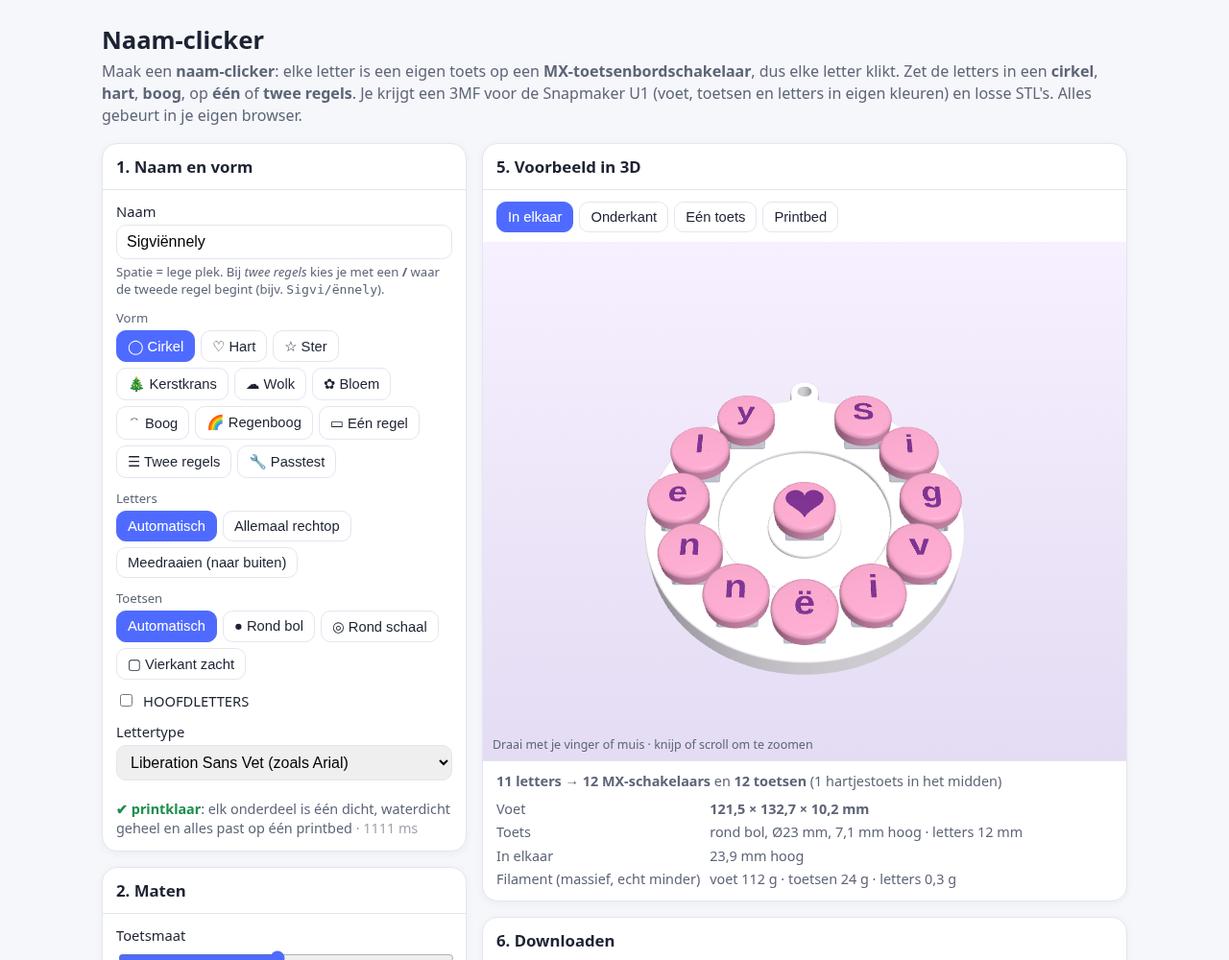
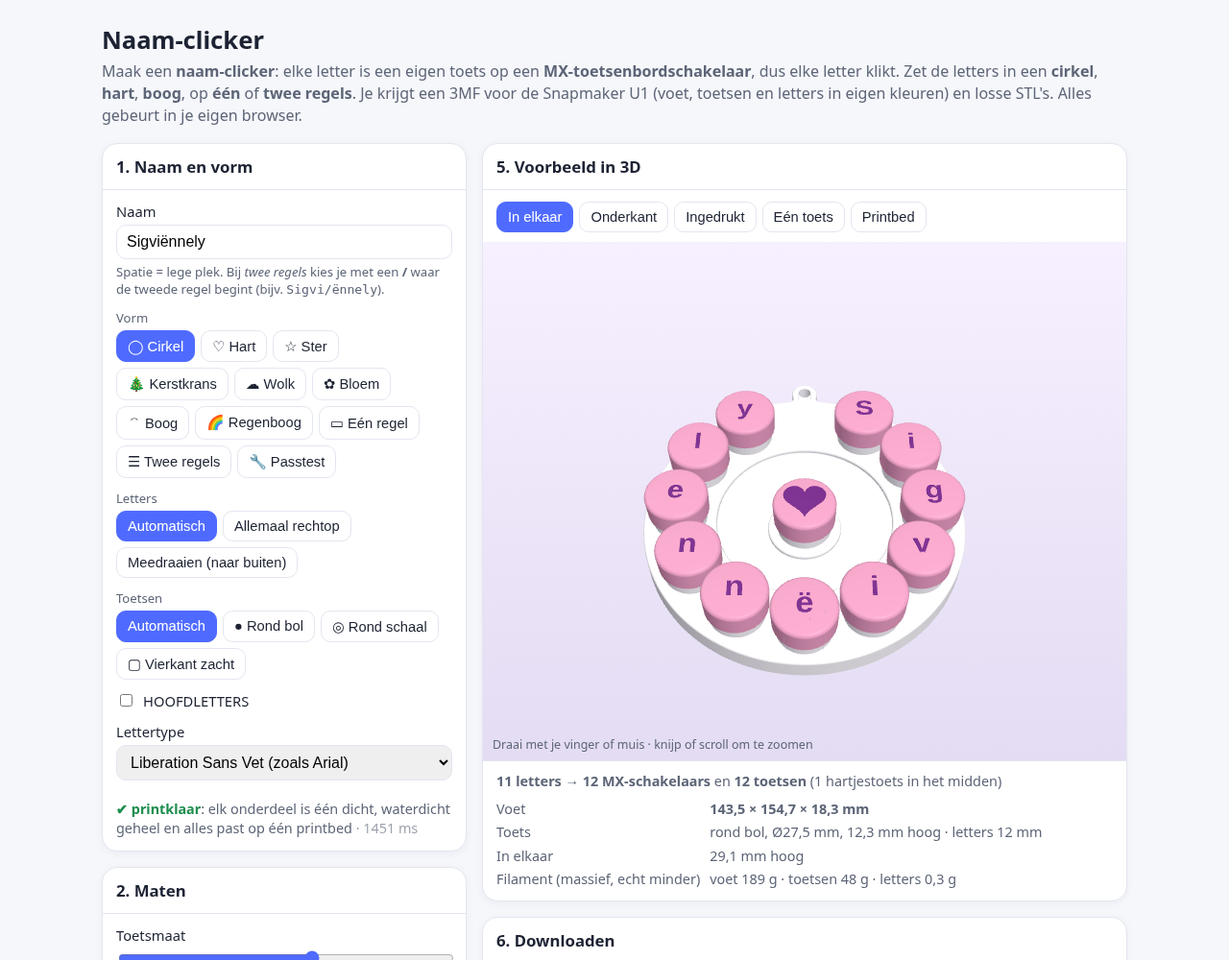
Naam-clicker v2.2: supportvrij kruisgat, kraag, weergave Ingedrukt

diff --git a/20-naam-clicker/geometry.js b/20-naam-clicker/geometry.js
@@ -22,6 +22,8 @@ export const DEFAULTS = {
   loop: true,
   stand: true,          // regenboog: losse standaard
   pushHole: false,
+  collar: true,         // 'Switch verbergen (kraag)': rand om elke schakelaar, de rok van de toets valt eroverheen
+  press: 0,             // alleen voor het 3D-beeld: 0 = in rust, 1 = helemaal ingedrukt
   label: 'verzonken',   // verzonken | gegraveerd
   inlay: 0.6,
   colors: 'gelijk',
@@ -30,6 +32,16 @@ export const DEFAULTS = {
 
 // MX-maten (Cherry): onderkant huis 5,0 mm onder plaat-bovenkant, pinnen 3,3 mm daaronder;
 // bovenhuis 6,6 mm boven de plaat (voet ca. 14,6 mm breed), steeltop 10,2 mm, slag 4 mm.
+// kraag en rok: maten rond het schakelaarhuis (MX-bovenhuis 15,6 × 15,6 mm)
+export const COLLAR = { hous: 15.6, housR: 1.0, clr: 0.35, wall: 1.2, skirtClr: 0.45, skirtWall: 1.0, taper: 0.3, overlap: 1.2, chamfer: 0.3, topClr: 1.2 };   // topClr: ruimte boven de kraag bij helemaal ingedrukt (ruim, want de echte rusthoogte van de toets verschilt per merk)
+// toetsmaat: standaard en minimum, per vorm van de toets en met of zonder kraag
+export function keySizes(round, collar) {
+  if (!collar) return round ? { def: 23, min: 22.4 } : { def: 19, min: 18.6 };
+  const C = COLLAR; const inHalf = C.hous / 2 + C.clr;
+  const collarOut = round ? (inHalf - C.housR - C.clr) * Math.SQRT2 + C.housR + C.clr + 1.0 : inHalf + C.wall;
+  const min = Math.ceil(2 * (collarOut + C.skirtClr + C.skirtWall + C.taper) * 10) / 10;
+  return { def: Math.ceil(min * 2) / 2, min };
+}
 export const SWITCHES = {
   mx: { name: 'MX (Cherry, Gateron, Outemu, Kailh Box, Akko)', below: 8.6, housTop: 6.6, stemTop: 10.2, travel: 4.0, cavity: 15.0 },
 };
@@ -213,11 +225,11 @@ export function filletPrism(W, cs0, h, f, T, steps = 8) {
 
 // ---------- toetsen ----------
 // Geprint met de steel naar beneden (rok en steel staan op het bed), de bolle of holle bovenkant komt
-// er als laatste op. Het plafond binnenin is een korte brug (±5 mm) tussen steel en rok; geen support nodig.
-function capSolid(W, o, round, style, ceil, T) {
+// er als laatste op. Alle plafonds binnenin (holte en kruisgat) lopen spits onder 45° toe: geen support nodig.
+function capSolid(W, o, round, style, ceil, T, minTop = 0) {
   const { Manifold } = W;
   const R = o.key / 2; const fr = Math.min(1.6, R * 0.15); const taper = 0.3;
-  const thick = style === 'schaal' ? 2.4 : 1.6; const zE = ceil + thick; const hd = style === 'bol' ? 1.1 : style === 'vierkant' ? 0.5 : 0;
+  const dish = style === 'schaal' ? 0.9 : 0; const thick = Math.max(style === 'schaal' ? 2.4 : 1.6, minTop + dish - ceil); const zE = ceil + thick; const hd = style === 'bol' ? 1.1 : style === 'vierkant' ? 0.5 : 0;
   const pts = [];
   const ring = (delta, z) => {
     if (round) { const r = R - delta; const n = Math.max(24, Math.round(segs(r) * 1.5)); for (let i = 0; i < n; i++) { const a = i / n * 2 * Math.PI; pts.push([r * Math.cos(a), r * Math.sin(a), z]); } }
@@ -230,7 +242,7 @@ function capSolid(W, o, round, style, ceil, T) {
   if (hd > 0) { for (let i = 1; i <= 10; i++) { const d = fr + (R - fr - 2.5) * i / 10; ring(d, zE + lift(d)); } pts.push([0, 0, zE + hd]); }
   let outer = T(Manifold.hull(pts));
   if (style === 'schaal') {
-    const a = R - fr - 0.6, dd = 0.9; const Rs = (a * a + dd * dd) / (2 * dd);
+    const a = R - fr - 0.6, dd = dish; const Rs = (a * a + dd * dd) / (2 * dd);
     outer = T(outer.subtract(T(T(Manifold.sphere(Rs, 256)).translate([0, 0, zE - dd + Rs]))));
   }
   return { outer, zTop: zE + hd };
@@ -253,8 +265,8 @@ export function buildClicker(W, font, opts = {}) {
     const style = o.capStyle === 'auto' ? (LD.round ? 'bol' : 'vierkant') : o.capStyle;
     const round = style !== 'vierkant';
     // rok moet rond het schakelaarhuis passen (vak in de toets 16 × 16 mm)
-    const minKey = round ? 22.4 : 18.6;
-    if (!o.key) o.key = round ? 23 : 19;
+    const ks0 = keySizes(round, o.collar); const minKey = ks0.min;
+    if (!o.key) o.key = ks0.def;
     if (o.key < minKey) { warn.push(`Toetsmaat verhoogd naar ${String(minKey).replace('.', ',')} mm, anders past de rok niet om de schakelaar.`); o.key = minKey; }
     const isCenterLayout = ['cirkel', 'hart', 'ster', 'wolk', 'bloem'].includes(o.layout);
 
@@ -343,7 +355,8 @@ export function buildClicker(W, font, opts = {}) {
     if (o.loop && L !== 'test' && !(L === 'regenboog' && o.stand)) {
       let P, dir;
       if (lay.closed) { const gq = lay.gap(scale); P = gq.pos; dir = gq.dir; }
-      else { const f = slots[0]; const s2 = slots[1] || { x: f.x + 1, y: f.y }; const d = [f.x - s2.x, f.y - s2.y]; const l = Math.hypot(d[0], d[1]) || 1; dir = [d[0] / l, d[1] / l]; P = [f.x, f.y]; if (L === 'tweeregels') dir = [-1, 0]; }
+      else { const f = slots[0]; const s2 = slots[1] || { x: f.x + 1, y: f.y }; const d = [f.x - s2.x, f.y - s2.y]; const l = Math.hypot(d[0], d[1]) || 1; dir = [d[0] / l, d[1] / l]; P = [f.x, f.y]; if (L === 'tweeregels') dir = [-1, 0];
+        if (L === 'lijn') { const span = Math.abs(slots[slots.length - 1].x - f.x) + FW; if (span + 22 > 266) dir = [0, 1]; } }   // lange regel: oogje boven de eerste letter, anders past hij niet op het bed
       const body = T(CrossSection.union(parts));
       let ok = false;
       for (let off = FW / 2 + bandOuterExtra + 2; off <= FW / 2 + bandOuterExtra + 40 && !ok; off += 0.5) {
@@ -381,6 +394,22 @@ export function buildClicker(W, font, opts = {}) {
     if (tabHole) holes.push(T(T(tabHole.extrude(baseH + 2)).translate([0, 0, -1])));
     base = T(base.subtract(T(Manifold.union(holes))));
 
+    // kraag: per schakelaar een rand die tot net boven de onderkant van de toetsrok komt (verbergt de schakelaar)
+    const C = COLLAR; const collarH = sw.housTop + C.overlap + C.chamfer;   // 8,1 mm boven de voet; de rok overlapt 1,2 mm in rust en 5,2 mm ingedrukt
+    let collarIn = null, collarOutCS = null, skirtIn = null, colOne = null;
+    if (o.collar) {
+      const inS = C.hous + 2 * C.clr, inR = C.housR + C.clr;
+      collarIn = T(rsq(W, inS, inR));
+      if (round) { const Rin = (inS / 2 - inR) * Math.SQRT2 + inR; collarOutCS = T(circ(W, Rin + 1.0)); skirtIn = T(circ(W, Rin + 1.0 + C.skirtClr)); }
+      else { collarOutCS = T(rsq(W, inS + 2 * C.wall, inR + C.wall)); skirtIn = T(rsq(W, inS + 2 * C.wall + 2 * C.skirtClr, inR + C.wall + C.skirtClr)); }
+      const topCS = T(collarOutCS.offset(-C.chamfer, 'Round', 2, SEG));
+      const col = T(T(T(T(collarOutCS.extrude(collarH - C.chamfer + 0.01)).translate([0, 0, baseH - 0.01]))
+        .add(T(Manifold.hull([T(T(collarOutCS.extrude(0.01)).translate([0, 0, baseH + collarH - C.chamfer - 0.01])), T(T(topCS.extrude(0.01)).translate([0, 0, baseH + collarH - 0.01]))]))))
+        .subtract(T(T(collarIn.extrude(collarH + 2)).translate([0, 0, baseH - 1]))));
+      colOne = col;
+      base = T(base.add(T(Manifold.union(allKeys.map((k) => T(T(col.rotate([0, 0, k.rot])).translate([k.x, k.y, 0])))))));
+    }
+
     // krans: hulstblaadjes en besjes op de buitenrand
     let decoLeaves = null, decoBerries = null;
     if (L === 'krans') {
@@ -409,7 +438,7 @@ export function buildClicker(W, font, opts = {}) {
     let standM = null;
     if (L === 'regenboog' && o.stand) {
       const bb0 = base.boundingBox(); const len = bb0.max[0] - bb0.min[0] + 10, depth = 34, hgt = 15, tilt = 12;
-      const blk = filletPrism(W, T(T(rsq(W, 10, 1)).scale([len / 10, depth / 10])), hgt, 2, T);
+      const blk = filletPrism(W, T(T(CrossSection.square([len - 8, depth - 8], true)).offset(4, 'Round', 2, SEG)), hgt, 2, T);
       const slotW = baseH + 0.5, slotD = 10;
       const slot = T(T(T(T(Manifold.cube([len - 8, slotW, slotD + 20], true)).translate([0, 0, (slotD + 20) / 2])).rotate([-tilt, 0, 0])).translate([0, 2, hgt - slotD]));
       standM = T(blk.subtract(slot));
@@ -420,15 +449,55 @@ export function buildClicker(W, font, opts = {}) {
     const stemTopL = sw.stemTop - skirtGap;      // 3,6 mm
     const socketD = Math.min(3.6, stemTopL);
     const ceil = sw.housTop + sw.travel + 0.4 - skirtGap;   // 4,4 mm: plafond vrij van het huis bij indrukken
-    const { outer, zTop } = capSolid(W, o, round, style, ceil, T);
-    const cavS = 16, cavR = 2.5;
-    const cavity = T(T(T(rsq(W, cavS, cavR)).extrude(ceil + 1)).translate([0, 0, -1]));
-    const post = T(Manifold.cylinder(ceil + 0.3, 2.75, 2.75, 64));
+    // holte onder de toets, helemaal zelfdragend bij printen met de steel omlaag:
+    // rechte rok tot cavZ, daarboven loopt het plafond onder 45° naar binnen; de steel loopt vanaf flareZ
+    // onder 45° naar buiten. Waar die twee schuine vlakken elkaar raken ontstaat een spitse nok: geen plat plafond.
+    const flareZ = sw.travel + 0.1;   // 4,1 mm: net boven de 4 mm slag
+    const slab = (cs, z0, h) => T(T(cs.extrude(h)).translate([0, 0, z0]));
+    const H = 7.5, HF = 20;   // H: hoogte van de schuine holte-afschuining; HF: steel-uitloop (ruim boven de toets)
+    let cavity, roundCav = false;
+    if (o.collar) {
+      // rok valt over de kraag: plafond boven de kraag moet bij indrukken nog 0,5 mm vrij blijven
+      const cavZ = (collarH - sw.housTop) + sw.travel + C.topClr - (C.skirtClr + C.chamfer);   // 5,95 mm boven de onderkant van de rok
+      roundCav = round;
+      const base0 = slab(skirtIn, -1, cavZ + 1);
+      if (round) { const Rs = skirtIn.bounds().max[0];
+        cavity = T(base0.add(T(Manifold.hull([slab(T(circ(W, Rs)), cavZ - 0.01, 0.01), slab(T(circ(W, Rs - H)), cavZ + H - 0.01, 0.01)])))); }
+      else { const sb = skirtIn.bounds(); const side = sb.max[0] - sb.min[0], rr = C.housR + C.clr + C.wall + C.skirtClr;
+        const offSq = (t) => { const sd = side - 2 * t, r2 = rr - t; return r2 > 0.05 ? T(rsq(W, sd, r2)) : T(CrossSection.square([sd, sd], true)); };
+        cavity = T(base0.add(T(Manifold.hull([slab(offSq(0), cavZ - 0.01, 0.01), slab(offSq(rr), cavZ + rr - 0.01, 0.01), slab(offSq(H), cavZ + H - 0.01, 0.01)])))); }
+    } else {
+      // zonder kraag: vak 16 × 16 mm, plafond vanaf 2,6 mm onder 45° naar binnen
+      const cavS = 16, cavR = 2.5, cavZ = ceil - 1.8;
+      const offSq = (side, r, t) => { const sd = side - 2 * t, rr = r - t; return rr > 0.05 ? T(rsq(W, sd, rr)) : T(CrossSection.square([sd, sd], true)); };
+      cavity = T(T(slab(T(rsq(W, cavS, cavR)), -1, cavZ + 1)).add(T(Manifold.hull([
+        slab(offSq(cavS, cavR, 0), cavZ - 0.01, 0.01), slab(offSq(cavS, cavR, cavR), cavZ + cavR - 0.01, 0.01), slab(offSq(cavS, cavR, 7), cavZ + 7 - 0.01, 0.01)]))));
+    }
+    // steel: Ø5,5, onderrand 0,3 mm afgeschuind (olifantspoot); vanaf flareZ loopt hij onder 45° uit
+    // (kegel bij een ronde holte, vierkante piramide bij een vierkante holte)
+    const postR = 2.75, postFoot = 0.3, pA = 2 * postR / Math.SQRT2 - 0.02;
+    const flare = roundCav ? T(Manifold.cylinder(HF, postR - 0.02, postR - 0.02 + HF, 96).translate([0, 0, flareZ]))
+      : T(Manifold.hull([slab(T(CrossSection.square([pA, pA], true)), flareZ, 0.01), slab(T(CrossSection.square([pA + 2 * HF, pA + 2 * HF], true)), flareZ + HF, 0.01)]));
+    const post = T(T(Manifold.hull([T(Manifold.cylinder(0.01, postR - postFoot, postR - postFoot, 64)), T(T(Manifold.cylinder(flareZ + 0.2 - postFoot, postR, postR, 64)).translate([0, 0, postFoot]))])).add(flare));
+    const voidM = T(cavity.subtract(post));
+    const ridge = voidM.boundingBox().max[2];
+    const { outer, zTop } = capSolid(W, o, round, style, ceil, T, ridge + Math.max(Math.min(o.inlay, 1.2), 0.8) + 0.5);
     const armL = 4.0 + o.stemTol, armW = 1.2 + o.stemTol;
     const crossCS = T(CrossSection.union([T(CrossSection.square([armL, armW], true)), T(CrossSection.square([armW, armL], true))]));
-    const cross = T(T(crossCS.extrude(socketD + 1)).translate([0, 0, -1]));
-    const lead = T(T(T(crossCS.offset(0.25, 'Miter', 2, 8)).extrude(0.25 + 1)).translate([0, 0, -1])); // invoerrandje tegen olifantspoot
-    const capShell = T(T(T(T(outer.subtract(cavity)).add(post)).subtract(cross)).subtract(lead));
+    // kruisgat: volle 3,6 mm diep, met daarboven een 45°-zadeldak per arm (spits plafond, zelfdragend)
+    // kruisgat: volle 3,6 mm diep; daarboven per arm een spits zadeldak onder 60° (ruim boven Orca's 30°-drempel,
+    // ook voor kleine smalle gaatjes) en aan de mond een afschuining van 0,35 mm, ook onder 60°.
+    // Gebouwd als bolle romp van punten: de nok is een echte lijn, dus er is nergens een plat vlakje.
+    const roofA = 60 * Math.PI / 180, rh = (armW / 2) * Math.tan(roofA), ch = 0.35, chH = ch * Math.tan(roofA);
+    const rect = (lx, ly, z) => [[-lx / 2, -ly / 2, z], [lx / 2, -ly / 2, z], [lx / 2, ly / 2, z], [-lx / 2, ly / 2, z]];
+    const arm = (rotZ) => {
+      const box = T(T(Manifold.cube([armL, armW, socketD + 1], true)).translate([0, 0, (socketD + 1) / 2 - 1]));
+      const roof = T(Manifold.hull([...rect(armL, armW, socketD - 0.2), ...rect(armL, armW, socketD), [-armL / 2, 0, socketD + rh], [armL / 2, 0, socketD + rh]]));
+      const mouth = T(Manifold.hull([...rect(armL + 2 * ch, armW + 2 * ch, -1), ...rect(armL + 2 * ch, armW + 2 * ch, 0), ...rect(armL, armW, chH)]));
+      let a = T(T(box.add(roof)).add(mouth)); if (rotZ) a = T(a.rotate([0, 0, rotZ])); return a;
+    };
+    const cross = T(arm(0).add(arm(90)));
+    const capShell = T(T(outer.subtract(voidM)).subtract(cross));
 
     // letters
     const em = 100; const glyphs = new Map(); const missing = [];
@@ -471,10 +540,11 @@ export function buildClicker(W, font, opts = {}) {
     if (thin.length) warn.push('Dunne lijntjes (< 0,5 mm) in: ' + [...new Set(thin)].join(' ') + '. Maak de letters groter.');
 
     // --- in elkaar (3D-beeld) ---
-    const assembled = caps.map((c) => { const pl = (m) => T(T(T(m.rotate([0, 0, c.slot.rot])).translate([c.slot.x, c.slot.y, baseH + skirtGap]))); return { body: pl(c.body), letter: c.letter ? pl(c.letter) : null }; });
+    const pz = -sw.travel * Math.max(0, Math.min(1, o.press || 0));   // alleen voor het beeld: ingedrukt
+    const assembled = caps.map((c) => { const pl = (m) => T(T(T(m.rotate([0, 0, c.slot.rot])).translate([c.slot.x, c.slot.y, baseH + skirtGap + pz]))); return { body: pl(c.body), letter: c.letter ? pl(c.letter) : null }; });
     const swParts = allKeys.map((k) => {
-      const hous = T(Manifold.hull([T(T(T(rsq(W, 14.6, 1)).extrude(1)).translate([0, 0, baseH])), T(T(T(rsq(W, 11.4, 1.5)).extrude(0.5)).translate([0, 0, baseH + sw.housTop - 0.5]))]));
-      const st = T(T(crossCS.extrude(sw.stemTop - sw.housTop)).translate([0, 0, baseH + sw.housTop]));
+      const hous = T(Manifold.hull([T(T(T(rsq(W, COLLAR.hous, COLLAR.housR)).extrude(1.5)).translate([0, 0, baseH])), T(T(T(rsq(W, 11.4, 1.5)).extrude(0.5)).translate([0, 0, baseH + sw.housTop - 0.5]))]));
+      const st = T(T(crossCS.extrude(sw.stemTop - sw.housTop)).translate([0, 0, baseH + sw.housTop + pz]));
       return T(T(T(hous.add(st)).rotate([0, 0, k.rot])).translate([k.x, k.y, 0]));
     });
     const switchesM = T(Manifold.union(swParts));
@@ -487,9 +557,17 @@ export function buildClicker(W, font, opts = {}) {
     let y = -g; let standP = null;
     if (standM) { const sb = standM.boundingBox(); standP = T(standM.translate([-(sb.min[0] + sb.max[0]) / 2, y - sb.max[1], 0])); y -= (sb.max[1] - sb.min[1]) + g; }
     const cell = o.key + g;
-    let cols = Math.max(1, Math.min(Math.floor((bed - 2 * margin + g) / cell), Math.max(Math.floor((bw + g) / cell), Math.ceil(caps.length / 3))));
-    const printed = caps.map((c, i) => { const col = i % cols, row = Math.floor(i / cols); const rowN = Math.min(cols, caps.length - row * cols);
-      const x = (col - (rowN - 1) / 2) * cell, yy = y - o.key / 2 - row * cell; return { body: T(c.body.translate([x, yy, 0])), letter: c.letter ? T(c.letter.translate([x, yy, 0])) : null }; });
+    // A: toetsen in rijen onder de voet; B (als A niet past): toetsen in kolommen rechts naast de voet
+    const placeA = () => { let cols = Math.max(1, Math.min(Math.floor((bed - 2 * margin + g) / cell), Math.max(Math.floor((bw + g) / cell), Math.ceil(caps.length / 3))));
+      return caps.map((c, i) => { const col = i % cols, row = Math.floor(i / cols); const rowN = Math.min(cols, caps.length - row * cols);
+        return [(col - (rowN - 1) / 2) * cell, y - o.key / 2 - row * cell]; }); };
+    const placeB = () => { const x0 = bw / 2 + g + o.key / 2, top = bh - o.key / 2; const rows = Math.max(1, Math.floor((Math.max(bh, bed - 2 * margin) + g) / cell));
+      return caps.map((c, i) => [x0 + Math.floor(i / rows) * cell, top - (i % rows) * cell]); };
+    const span = (pos) => { let a = [1e9, 1e9], b2 = [-1e9, -1e9]; const add = (x0, y0, x1, y1) => { a = [Math.min(a[0], x0), Math.min(a[1], y0)]; b2 = [Math.max(b2[0], x1), Math.max(b2[1], y1)]; };
+      add(-bw / 2, 0, bw / 2, bh); if (standP) { const sb = standP.boundingBox(); add(sb.min[0], sb.min[1], sb.max[0], sb.max[1]); }
+      pos.forEach(([x, yy]) => add(x - o.key / 2, yy - o.key / 2, x + o.key / 2, yy + o.key / 2)); return Math.max(b2[0] - a[0], b2[1] - a[1]); };
+    let pos = placeA(); if (span(pos) > bed - 2) { const pB = placeB(); if (span(pB) < span(pos)) pos = pB; }
+    const printed = caps.map((c, i) => { const [x, yy] = pos[i]; return { body: T(c.body.translate([x, yy, 0])), letter: c.letter ? T(c.letter.translate([x, yy, 0])) : null }; });
     let mn = [1e9, 1e9], mx = [-1e9, -1e9];
     const acc = (m) => { if (!m) return; const b = m.boundingBox(); mn = [Math.min(mn[0], b.min[0]), Math.min(mn[1], b.min[1])]; mx = [Math.max(mx[0], b.max[0]), Math.max(mx[1], b.max[1])]; };
     acc(baseP); acc(standP); printed.forEach((p) => acc(p.body));
@@ -501,7 +579,8 @@ export function buildClicker(W, font, opts = {}) {
 
     // --- meshes + controle ---
     const mesh = (m) => (m ? meshOf(m) : null);
-    const capPreview = { body: mesh(caps[0].body), letter: mesh(caps[0].letter), sw: mesh(T(T(swParts[0].translate([-allKeys[0].x, -allKeys[0].y, -baseH - skirtGap])).rotate([0, 0, -allKeys[0].rot]))) };
+    const capPreview = { body: mesh(caps[0].body), letter: mesh(caps[0].letter), sw: mesh(T(T(swParts[0].translate([-allKeys[0].x, -allKeys[0].y, -baseH - skirtGap])).rotate([0, 0, -allKeys[0].rot]))),
+      collar: colOne ? mesh(T(colOne.translate([0, 0, -baseH - skirtGap]))) : null };
     const out = {
       base: mesh(base), deco: { leaves: mesh(decoLeaves), berries: mesh(decoBerries) }, stand: mesh(standM),
       assembled: assembled.map((a) => ({ body: mesh(a.body), letter: mesh(a.letter) })),
@@ -516,7 +595,7 @@ export function buildClicker(W, font, opts = {}) {
     const box = (m) => { const b = m.boundingBox(); return [b.max[0] - b.min[0], b.max[1] - b.min[1], b.max[2] - b.min[2]]; };
     const info = {
       letters: letters.length, switches: allKeys.length, keycaps: caps.length, center: !!center, style, round,
-      baseSize: box(base), standSize: standM ? box(standM) : null, capSize: [o.key, o.key, zTop], baseH, capH: zTop, assembledH: baseH + skirtGap + zTop,
+      baseSize: box(base), standSize: standM ? box(standM) : null, capSize: [o.key, o.key, zTop], baseH, capH: zTop, assembledH: baseH + skirtGap + zTop, collar: !!o.collar, collarH: o.collar ? collarH : 0,
       fitsBed, fitsBase, layout: o.layout, scale, textMM: s * (yMax - yMin), fill: fillInfo, tab: !!tab,
       volumes: vol, grams: { base: vol.base / 1000 * 1.24, caps: vol.caps / 1000 * 1.24, letters: vol.letters / 1000 * 1.24 },
       ok: checks.every((c) => c.ok) && one(base) && (!standM || one(standM)) && caps.every((c) => one(c.body)),
@@ -618,7 +697,11 @@ ${objs.join('\n')}
 <build>${items.join('')}</build>
 </model>`;
   const ms = ['<?xml version="1.0" encoding="UTF-8"?>\n<config>'];
+  // per object support UIT (Orca/Bambu-sleutels): ook als support in het procesprofiel aan staat, krijgen
+  // voet, standaard en toetsen geen support. Niets in dit ontwerp heeft support nodig.
+  const noSup = ['enable_support', '0'], supKeys = [noSup, ['support_type', 'normal(manual)'], ['support_on_build_plate_only', '1'], ['enforce_support_layers', '0']];
   for (const c of cfg) ms.push(` <object id="${c.oid}">\n  <metadata key="name" value="${esc(c.nm)}"/>\n  <metadata key="extruder" value="${c.ex}"/>\n` +
+    supKeys.map(([k, v]) => `  <metadata key="${k}" value="${v}"/>\n`).join('') +
     c.parts.map((p) => `  <part id="${p.pid}" subtype="normal_part">\n   <metadata key="name" value="${esc(p.nm)}"/>\n   <metadata key="extruder" value="${p.ex}"/>\n  </part>`).join('\n') + '\n </object>');
   ms.push(' <plate>\n  <metadata key="plater_id" value="1"/>\n  <metadata key="plater_name" value="Naam-clicker"/>');
   for (const c of cfg) ms.push(`  <model_instance>\n   <metadata key="object_id" value="${c.oid}"/>\n   <metadata key="instance_id" value="0"/>\n  </model_instance>`);

diff --git a/20-naam-clicker/app.js b/20-naam-clicker/app.js
@@ -2,7 +2,7 @@ import * as THREE from 'three';
 import { OrbitControls } from 'three/addons/controls/OrbitControls.js';
 import ManifoldModule from 'https://cdn.jsdelivr.net/npm/manifold-3d@3.5.4/manifold.js';
 import opentype from 'https://cdn.jsdelivr.net/npm/opentype.js@1.3.4/dist/opentype.module.js';
-import { DEFAULTS, buildClicker, toSTL, to3MF } from './geometry.js';
+import { DEFAULTS, buildClicker, toSTL, to3MF, keySizes } from './geometry.js';
 
 const $ = (id) => document.getElementById(id);
 const nl = (x, d = 1) => Number(x).toLocaleString('nl-NL', { minimumFractionDigits: 0, maximumFractionDigits: d });
@@ -25,17 +25,18 @@ for (const g of ['layout', 'orient', 'capStyle', 'label', 'colors', 'view']) {
       ['c1', 'c2', 'c3', 'c4'].forEach((id, i) => { $(id).value = cols[i]; mats[i].color.set(cols[i]); });
     }
     if (g === 'layout' || g === 'capStyle') { // toetsmaat passend bij ronde of vierkante toetsen
-      const want = isRound() ? 23 : 19; if (state.lastRound !== isRound()) { $('key').value = want; $('key').dispatchEvent(new Event('input')); } state.lastRound = isRound();
+      const want = keySizes(isRound(), $('collar').checked).def; if (state.lastRound !== isRound()) { $('key').value = want; $('key').dispatchEvent(new Event('input')); } state.lastRound = isRound();
     }
-    syncOff(); if (g === 'view') show(result, true); else if (g === 'colors') { show(result); } else schedule();
+    syncOff(); if (g === 'view') { if ((state.view === 'druk' ? 1 : 0) !== ((result && result.opts && result.opts.press) || 0)) schedule(); else show(result, true); } else if (g === 'colors') { show(result); } else schedule();
   });
 }
 const mm = (v) => nl(v, 2) + ' mm';
 state.lastRound = true;
-const sliders = { fillet: mm, key: (v) => mm(v) + (isRound() ? ' doorsnede (minimaal 22,4)' : ' breed (minimaal 18,6)'), textH: (v) => mm(v) + ' van de hoogste tot de laagste letterpunt', spacing: mm, arc: (v) => nl(v, 0) + '°', floor: mm, rim: mm,
+const sliders = { fillet: mm, key: (v) => mm(v) + (isRound() ? ' doorsnede' : ' breed') + ' (minimaal ' + nl(keySizes(isRound(), $('collar').checked).min, 1) + ')', textH: (v) => mm(v) + ' van de hoogste tot de laagste letterpunt', spacing: mm, arc: (v) => nl(v, 0) + '°', floor: mm, rim: mm,
   cut: (v) => mm(v) + ' (standaard 14)', plateT: (v) => mm(v) + ' (standaard 1,5)', holeTol: mm, stemTol: mm };
 for (const [id, fmt] of Object.entries(sliders)) { const upd = () => { $(id + 'Val').textContent = fmt(+$(id).value); }; upd(); $(id).addEventListener('input', () => { upd(); schedule(); }); }
 for (const id of ['upper', 'loop', 'fill', 'centerKey', 'pushHole', 'stand']) $(id).addEventListener('change', () => { syncOff(); schedule(); });
+$('collar').addEventListener('change', () => { $('key').value = keySizes(isRound(), $('collar').checked).def; $('key').dispatchEvent(new Event('input')); });
 $('name').addEventListener('input', schedule);
 for (const id of ['c1', 'c2', 'c3', 'c4']) $(id).addEventListener('input', () => { mats[+id[1] - 1].color.set($(id).value); });
 function syncOff() {
@@ -98,10 +99,10 @@ function show(r, refit = false) {
   for (const m of meshes) { group.remove(m); m.geometry.dispose(); } meshes = [];
   const alt = state.colors === 'omenom';
   const add = (m, mat) => { if (m) meshes.push(new THREE.Mesh(geomFrom(m), mat)); };
-  if (state.view === 'samen' || state.view === 'onder') {
+  if (state.view === 'samen' || state.view === 'onder' || state.view === 'druk') {
     add(r.base, mats[0]); add(r.deco.leaves, mats[3]); add(r.deco.berries, mats[1]); add(r.switches, matSw); r.assembled.forEach((a, i) => { add(a.body, mats[alt && i % 2 ? 3 : 1]); add(a.letter, mats[2]); });
   } else if (state.view === 'toets') {
-    add(r.capPreview.body, mats[1]); add(r.capPreview.letter, mats[2]); add(r.capPreview.sw, matSw);
+    add(r.capPreview.body, mats[1]); add(r.capPreview.letter, mats[2]); add(r.capPreview.sw, matSw); add(r.capPreview.collar, mats[0]);
   } else {
     add(r.plate.base, mats[0]); add(r.plate.leaves, mats[3]); add(r.plate.berries, mats[1]); add(r.plate.stand, mats[0]); r.plate.caps.forEach((a, i) => { add(a.body, mats[alt && i % 2 ? 3 : 1]); add(a.letter, mats[2]); });
   }
@@ -120,7 +121,8 @@ function show(r, refit = false) {
 function opts() {
   const o = { name: $('name').value, layout: state.layout, orient: state.orient, capStyle: state.capStyle, label: state.label, colors: state.colors, upper: $('upper').checked };
   for (const k of ['key', 'textH', 'spacing', 'arc', 'floor', 'rim', 'fillet', 'cut', 'plateT', 'holeTol', 'stemTol']) o[k] = +$(k).value;
-  for (const k of ['loop', 'fill', 'centerKey', 'pushHole', 'stand']) o[k] = $(k).checked;
+  for (const k of ['loop', 'fill', 'centerKey', 'pushHole', 'stand', 'collar']) o[k] = $(k).checked;
+  o.press = state.view === 'druk' ? 1 : 0;
   o.sw = $('sw').value; if (o.layout === 'test') { o.loop = false; }
   return o;
 }
@@ -167,6 +169,12 @@ function download(bytes, name, type) {
 const colorsNow = () => ['c1', 'c2', 'c3', 'c4'].map((id) => $(id).value.toUpperCase());
 cc.threemf = () => to3MF(result, fileBase(), colorsNow());
 cc.stl = (what) => toSTL(what === 'base' ? [result.plate.base, result.plate.stand, result.plate.leaves, result.plate.berries] : result.plate.caps.map((c) => (what === 'caps' ? c.body : c.letter)), fileBase());
+cc.side = (elev = 4) => { // voor tests: camera laag van opzij
+  const box = new THREE.Box3().setFromObject(group); const c = box.getCenter(new THREE.Vector3()); const sz = box.getSize(new THREE.Vector3());
+  const d = Math.max(sz.x, sz.y * 2.2) * 1.25; const e = elev * Math.PI / 180;
+  controls.target.copy(c); camera.position.set(c.x, c.y + d * Math.sin(e), c.z + d * Math.cos(e)); camera.near = d / 50; camera.far = d * 20; camera.updateProjectionMatrix(); controls.update();
+};
+cc.setChecks = (o) => { for (const [k, v] of Object.entries(o)) { $(k).checked = v; $(k).dispatchEvent(new Event('change')); } schedule(); };
 cc.set = (o) => { // voor tests: { layout, name, ... }
   if (o.name !== undefined) $('name').value = o.name;
   for (const g of ['layout', 'orient', 'capStyle', 'label', 'colors', 'view']) if (o[g]) $(g).querySelector(`[data-v="${o[g]}"]`).click();

diff --git a/20-naam-clicker/index.html b/20-naam-clicker/index.html
@@ -120,7 +120,7 @@
       <div class="card">
         <h2>2. Maten</h2>
         <div class="pad"><div class="fields">
-          <label>Toetsmaat<input type="range" id="key" min="18.5" max="28" step="0.5" value="23"><span class="hint" id="keyVal"></span></label>
+          <label>Toetsmaat<input type="range" id="key" min="18.5" max="34" step="0.5" value="27.5"><span class="hint" id="keyVal"></span></label>
           <label>Letterhoogte<input type="range" id="textH" min="6" max="16" step="0.5" value="12"><span class="hint" id="textHVal"></span></label>
           <label>Ruimte tussen toetsen<input type="range" id="spacing" min="0.5" max="6" step="0.5" value="1"><span class="hint" id="spacingVal"></span></label>
           <label id="arcLabel">Boog: openingshoek<input type="range" id="arc" min="90" max="270" step="5" value="160"><span class="hint" id="arcVal"></span></label>
@@ -136,6 +136,7 @@
           <label class="row" id="fillLabel"><input type="checkbox" id="fill" checked> Verdiepte middenplaat (cirkel en hart)</label>
           <label class="row" id="centerLabel"><input type="checkbox" id="centerKey" checked> Hartjestoets in het midden (extra schakelaar)</label>
           <label class="row" id="standLabel"><input type="checkbox" id="stand" checked> Regenboog: losse standaard om rechtop te zetten</label>
+          <label class="row"><input type="checkbox" id="collar" checked> Switch verbergen (kraag): een rand om elke schakelaar, de toets valt eroverheen</label>
           <label class="row"><input type="checkbox" id="pushHole"> Uitdrukgaatje onder elke schakelaar (onderkant niet meer dicht)</label>
           <div><div class="hint" style="margin-bottom:4px">Letters op de toets</div><div class="seg" id="label">
             <button type="button" data-v="verzonken" class="on">In eigen kleur (vlak)</button>
@@ -173,6 +174,7 @@
         <div class="pad" style="padding-bottom:0"><div class="seg" id="view">
           <button type="button" data-v="samen" class="on">In elkaar</button>
           <button type="button" data-v="onder">Onderkant</button>
+          <button type="button" data-v="druk">Ingedrukt</button>
           <button type="button" data-v="toets">Eén toets</button>
           <button type="button" data-v="plaat">Printbed</button>
         </div></div>
@@ -193,7 +195,8 @@
           </div>
           <ul class="hint" style="line-height:1.55; padding-left:18px">
             <li>In de 3MF is de <b>voet</b> een object op kop 1. Elke <b>toets</b> is een eigen object met twee delen: toets (kop 2, of om en om 2 en 4) en letter (kop 3).</li>
-            <li>De toetsen staan <b>met het steeltje omlaag</b> op het bed; de bolle bovenkant met de letter wordt als laatste geprint. Binnenin zit een kort bruggetje (±5 mm): <b>geen support</b> nodig.</li>
+            <li>De toetsen staan <b>met het steeltje omlaag</b> op het bed; de bolle bovenkant met de letter wordt als laatste geprint. Binnenin lopen alle plafonds spits toe (holte 45°, kruisgaatje 60°). In de 3MF staat support per onderdeel al uit; controleer in Orca dat <b>Support inschakelen</b> uit staat, anders komt er support in het kruisgaatje.</li>
+            <li>Met <b>Switch verbergen (kraag)</b> valt de rok van de toets over een rand om de schakelaar. Wil je schakelaars later wisselen, zet dan de uitdrukgaatjes aan: met de kraag past een schakelaartrekker er niet meer langs.</li>
             <li><b>PLA</b>, laagdikte <b>0,2 mm</b> (de bovenste 3 lagen zijn de letter), 3 wanden, 15 % vulling.</li>
             <li>Nodig: per letter 1 <b>MX-schakelaar</b> (bijv. blauwe = klikkend). Druk de schakelaar van boven in het vakje tot hij klikt, en druk dan de toets erop.</li>
           </ul>

diff --git a/20-naam-clicker/README.md b/20-naam-clicker/README.md
@@ -22,8 +22,9 @@ Alles draait in je eigen browser. Er wordt niets geüpload en er zijn geen accou
    - **Passtest**: één vakje met één toets. Print die eerst.
 4. Kies de **toetsvorm**: **rond bol** (een bolle bovenkant), **rond schaal** (een holle bovenkant, zoals een echte toetsenbordtoets) of **vierkant zacht** (vierkant met ronde hoeken). Bij *Automatisch* krijgen de boog, de regenboog en de regels vierkante toetsen en de rest ronde toetsen.
 5. Schuif aan de **maten** in millimeters: toetsmaat, letterhoogte, ruimte tussen de toetsen, bodemdikte, rand en de afronding van de bovenrand.
-6. Onder **Extra's** zet je het oogje, de middenplaat, de hartjestoets, de standaard en de uitdrukgaatjes aan of uit, en kies je de kleuren. De uitdrukgaatjes staan nu standaard **uit**, zodat de onderkant helemaal dicht en glad is.
-7. Bekijk het model met **In elkaar**, **Onderkant**, **Eén toets** of **Printbed**.
+6. Onder **Extra's** zet je het oogje, de middenplaat, de hartjestoets, de standaard en de uitdrukgaatjes aan of uit, en kies je de kleuren. De uitdrukgaatjes staan standaard **uit**, zodat de onderkant helemaal dicht en glad is.
+   - **Switch verbergen (kraag)** staat standaard **aan**. Om elke schakelaar staat dan een rand van 8,1 mm hoog, en de rok van de toets valt daar met 0,45 mm speling overheen. In rust overlappen ze 1,2 mm en ingedrukt 5,2 mm, dus je ziet de schakelaar van opzij nooit. De toetsen worden daardoor wel groter en hoger (zie *Goed om te weten*).
+7. Bekijk het model met **In elkaar**, **Onderkant**, **Ingedrukt**, **Eén toets** of **Printbed**.
 8. Kijk of er **✔ printklaar** staat en download de **3MF (U1)** of de losse STL's.
 
 ## Wat heb je nodig
@@ -37,14 +38,14 @@ Alles draait in je eigen browser. Er wordt niets geüpload en er zijn geen accou
 1. Open de 3MF in **Snapmaker Orca**. Alles ligt al goed op het printbed.
 2. De kleuren staan per kop klaar. **Kop 1** is de voet (en de standaard), **kop 2** de toetsen (en de besjes van de krans), **kop 3** de letters en **kop 4** de tweede toetskleur of de hulst. Zet in Orca het juiste filament op elke kop.
 3. Gebruik **PLA**, een laagdikte van **0,2 mm**, 3 wanden en 15 % vulling. Je hebt **geen support** nodig.
-4. De toetsen staan **met het steeltje omlaag** op het bed. De bolle of holle bovenkant met de letter wordt als laatste geprint, en de letter volgt de bolling. Binnenin zit een kort bruggetje van ongeveer 5 mm. Dat lukt zonder support.
+4. De voet print je rechtop. De kraag is een rechte rand en heeft geen support nodig. De toetsen staan **met het steeltje omlaag** op het bed. De bolle of holle bovenkant met de letter wordt als laatste geprint, en de letter volgt de bolling. Binnenin lopen alle plafonds spits toe: onder 45° in de holte en onder 60° boven het kruisgaatje. In de 3MF staat support per onderdeel al **uit**. Kijk in Orca toch even na of bij *Proces → Support* het vinkje **Support inschakelen** (`enable_support`) uit staat. Staat het aan, dan kan de slicer het kleine kruisgaatje vol support zetten, en dan past de toets niet meer op de schakelaar. *Alleen op het bed* helpt hier niet: het kruisgaatje ligt open op het bed.
 5. Kies in Orca bij **Wanden** de *Arachne*-wandgenerator. Daarmee worden kleine letters en de puntjes op de **ë** mooier.
 
 ## In elkaar zetten
 
 1. Druk elke schakelaar **van boven** in een vakje tot je hem hoort klikken. Hij staat dan vast.
 2. Druk de toets op het kruisje van de schakelaar, met de letter rechtop. Het kruisje past in vier standen.
-3. Moet er een schakelaar uit? Wrik hem met een schakelaartrekker of een plat schroevendraaiertje los. Wil je dat makkelijker hebben, zet dan vóór het printen de **uitdrukgaatjes** aan.
+3. Moet er een schakelaar uit? Met de kraag past er geen schakelaartrekker meer langs. Wil je schakelaars later kunnen wisselen, zet dan vóór het printen de **uitdrukgaatjes** aan. Dan duw je de schakelaar met een pen van onderen eruit.
 4. Regenboog met standaard: schuif de onderkant van de regenboog in de sleuf.
 
 ## Past het niet?
@@ -58,7 +59,9 @@ Open **4. Schakelaar en speling**:
 ## Goed om te weten
 
 - Het model is nog **niet getest op een echte U1**. De maten van de schakelaar komen uit de standaard. Print daarom eerst de passtest.
-- De nieuwe toetsen zijn groter (rond Ø23 mm, vierkant 19 mm), dus de vormen zijn ook wat groter. Een cirkel is ongeveer 12 cm en een ster ongeveer 16 × 20 cm.
+- Met de kraag zijn de toetsen **rond Ø27,5 mm** en **vierkant 22,5 mm**. Ze zijn ongeveer 12,2 mm (rond) of 10,8 mm (vierkant) hoog. De voet is 10,2 mm hoog, met de kraag 18,3 mm. Alles in elkaar is ongeveer 29 mm (rond) of 27,6 mm (vierkant) hoog.
+- De vormen worden daardoor groter. Een cirkel is ongeveer 14 × 15 cm en een ster ongeveer 19 × 23 cm. Bij een ster liggen de toetsen naast de voet op het printbed.
+- Zet je de kraag uit, dan krijg je de kleinere toetsen van eerst terug (rond Ø23, vierkant 19 mm). De schakelaar is dan wel te zien.
 - Het grammengewicht in het overzicht is voor een **massieve** print. Met 15 % vulling is het veel minder.
 - Een heel lange naam wordt groot. De tool waarschuwt als het niet meer op het printbed (270 × 270 mm) past.
 - Je kunt ook je **eigen lettertype** kiezen (.ttf of .otf). Staat er een letter niet in dat lettertype, dan zegt de tool dat.
